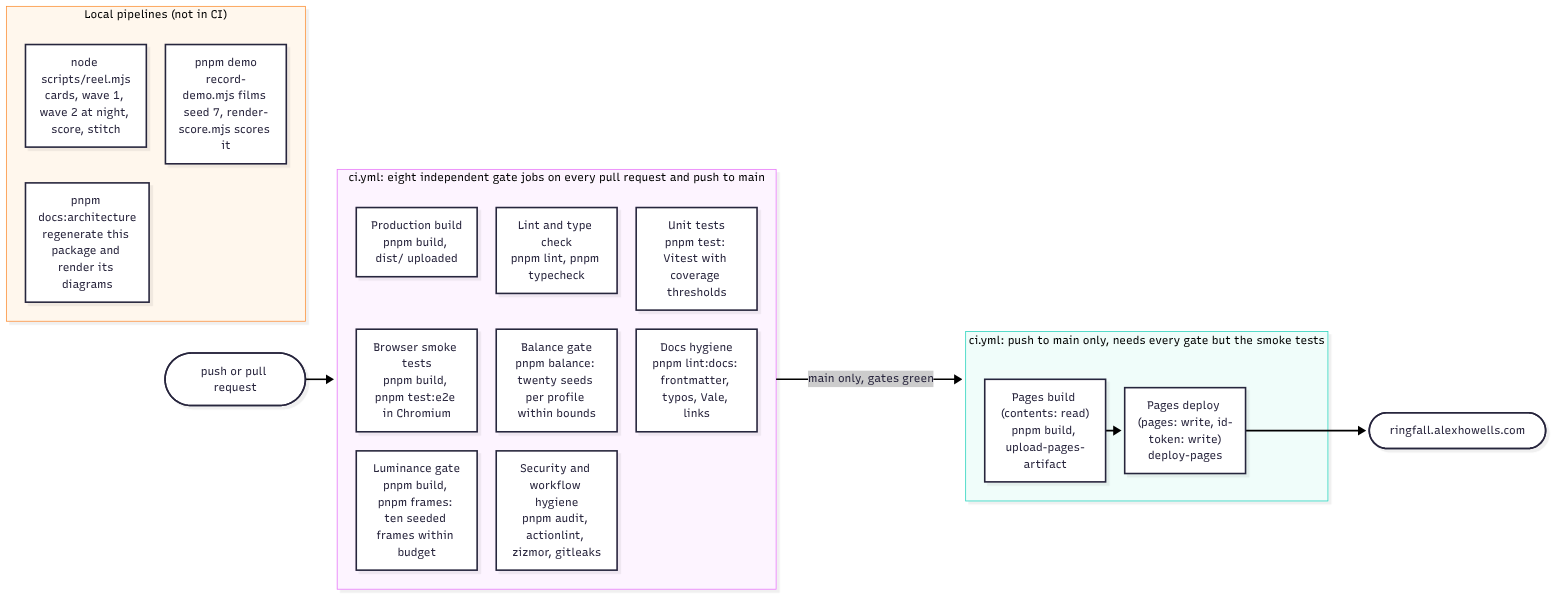
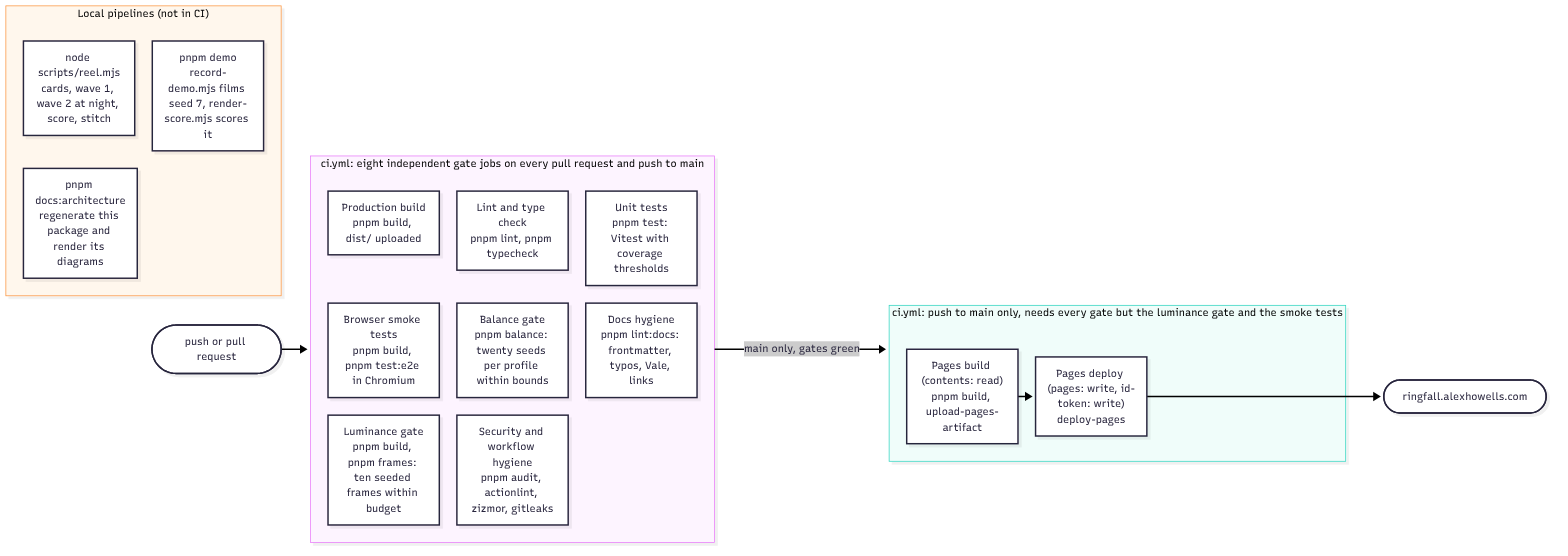
docs: follow PR #100 in the runbook, threat model, architecture and changelog
Part of #97 (Pass B). The Pages jobs now wait on the fast gates only,
the smoke tests have a 600 s budget and a 240 s first-step wait, and the
e2e artifact is the Playwright traces; the four pages that quoted the
old values and the two diagrams follow.

Claude-Session: https://claude.ai/code/session_01ApXjDPsd6B7Tp18a3jrdjZ

diff --git a/docs/threat-model.md b/docs/threat-model.md
@@ -111,7 +111,7 @@ flowchart TB
     security["Security and workflow hygiene<br/>pnpm audit, actionlint,<br/>zizmor, gitleaks"]
   end
 
-  subgraph deploy["ci.yml Pages jobs: push to main only, needs every job above except Browser smoke tests"]
+  subgraph deploy["ci.yml Pages jobs: push to main only, needs every job above except Luminance gate and Browser smoke tests"]
     direction LR
     dbuild["Pages build<br/>contents: read"]
     ddeploy["Pages deploy<br/>pages: write, id-token: write<br/>environment github-pages,<br/>concurrency pages"]
@@ -192,7 +192,7 @@ that implements it at `6fb2608`; "Gap" is what the control does not cover;
 | T12 | B6 | Information disclosure | A token, key or password is committed. | Low | High | `ci.yml` job `Security and workflow hygiene`: gitleaks 8.30.1 (SHA-256 verified download) over the working tree and the pushed commits with `.gitleaks.toml`, plus a self-test that the allowlist still catches a realistic `ghp_` and `sk_live_` token; `.pre-commit-config.yaml` runs gitleaks and `detect-private-key`; #68's sweep of the tree and `git log --all -p` found nothing (F22). | GitHub-side secret scanning and push protection are repository settings not yet confirmed on (F22). | #85 |
 | T13 | B6 | Tampering | A commit breaks an invariant that no reviewer would catch by eye: a `three` import or a clock in the pure core, a franchise term, a self-reference to the old repository name, a gameplay number that no longer matches the design document. | High | Medium | `tests/unit/purity.test.ts` and Biome restrict `src/core` to no `three`, `window`, `document`, `Date.now`, `Math.random`; `tests/unit/originality.test.ts` greps every tracked file outside `docs/research/` for the term list in `tests/unit/originality.terms.ts` (ADR-0003); `tests/unit/repo-name.test.ts` rejects the old repository path; `tests/unit/design-doc.test.ts` ties constants to `docs/design-doc.md`; `tests/balance/` and the `Luminance gate` job bound behavior and brightness. | None. These are the tests that did the stopping on 2026-10-21; see below. | none |
 | T14 | B7 | Elevation | A pull request workflow steals the `GITHUB_TOKEN`, writes to the repository, or runs an action whose upstream was replaced. | Low | High | `ci.yml` top-level `permissions: contents: read`; every `actions/checkout` has `persist-credentials: false`; `ci.yml` is the only workflow and has no `pull_request_target` or `workflow_run` trigger (#76 added a `workflow_run` deploy trigger and #89 removed it the same hour because zizmor rejects it); no `${{ }}` expression inside a `run:` (verified by #68); every `uses:` is pinned to a commit SHA with its tag in a comment, and #68 confirmed each SHA resolves to that tag; the `pages-deploy` job alone holds `pages: write` and `id-token: write`, checks nothing out, and runs only after `pages-build`, which has `contents: read` (F9, moved from `deploy-pages.yml` into `ci.yml` by #89). actionlint 1.7.12 and zizmor 1.31.1 at `--persona=pedantic` run on every pull request (`ci.yml` security job); Dependabot proposes action bumps weekly after a 7-day cooldown (`.github/dependabot.yml`, F12). | The repository-level Actions defaults (read-only token, approval for fork pull requests, allowed actions) could not be read (F20). They matter the day the repository is public. | #85 |
-| T15 | B7 | Repudiation | Evidence of a failing browser run is lost: the `playwright-report` artifact is uploaded on failure but is always empty. | High | Low | `ci.yml` uploads an artifact on e2e failure; `playwright.config.ts` writes traces on first retry to `test-results/`. | The artifact path is `playwright-report`, which the `github` reporter never writes (F14). | #86 |
+| T15 | B7 | Repudiation | Evidence of a failing browser run is lost: the e2e artifact is uploaded on failure but holds nothing. | High | Low | `ci.yml` uploads `test-results/` as `playwright-traces` on e2e failure (#100); `playwright.config.ts` writes traces on first retry to `test-results/`. | None since #100; the artifact was `playwright-report`, which the `github` reporter never writes (F14). | #86 |
 | T16 | B7, B8 | Tampering | A tool downloaded at CI time is substituted. | Low | Medium | typos, Vale, actionlint and gitleaks are fetched from GitHub releases at pinned versions and checked with `sha256sum --check --strict` before use (`ci.yml` docs and security jobs); `astral-sh/setup-uv` is SHA-pinned; Chromium comes from Playwright's own pinned distribution. | zizmor is run through `uvx --from zizmor==1.31.1` with a version pin only, no checksum; a PyPI compromise of that exact release would run on the runner with a read-only token. Accepted: the runner holds nothing to steal and the job runs no project code afterwards. | none (accepted) |
 | T17 | B7 | Tampering | A workflow regression goes unnoticed because a finding is suppressed. | Medium | Low | `.github/zizmor.yml` carries no ignores (`rules: {}` since #89); every zizmor finding at `--persona=pedantic` fails the security job. | None. | none |
 | T18 | B8 | Tampering | A hijacked or typosquatted npm release is installed on a developer machine or the runner; a lifecycle script runs on install. | Medium | High | `package.json` pins every dependency exactly, `pnpm-lock.yaml` carries sha512 integrity for each, every workflow job runs `pnpm install --frozen-lockfile`; `pnpm-workspace.yaml` `minimumReleaseAge: 1440` (nothing younger than a day resolves) and `onlyBuiltDependencies: []` (no dependency runs an install script); `.npmrc` `engine-strict=true` (F11); `.github/dependabot.yml` `versioning-strategy: increase`, `cooldown: 7 days`, grouped dev tooling (F12); `pnpm audit --audit-level=high` gates every pull request (`ci.yml` security job, from #62) with `pnpm.overrides` lifting the advisories that have fixes (F4). The one runtime dependency is `three@0.186.1`. | `GHSA-vfj7-8cjw-p6xm` (`braces`, high, reached only through `markdownlint-cli2` expanding the repository's own glob) is ignored under `pnpm.auditConfig` because no fixed release exists; the ignore is to be removed when one ships (recorded in #62). Dependency review on pull requests needs the dependency graph enabled by an admin. | #85 (dependency review); the `braces` ignore is residual risk, see section 5 |
@@ -369,7 +369,7 @@ issue tracks it; "Accepted" means the residual risk is stated in section 5.
 | 11 | Low | No pnpm hardening | Fixed (`pnpm-workspace.yaml`, `.npmrc`) | T18 |
 | 12 | Low | Dependabot without pin strategy, cooldown or grouping | Fixed (`.github/dependabot.yml`) | T14, T18 |
 | 13 | Low | Script arguments unvalidated | Fixed (`scripts/lib/args.mjs`) | T21 |
-| 14 | Low | `playwright-report` artifact always empty | Open | T15, #86 |
+| 14 | Low | `playwright-report` artifact always empty | Fixed (#100) | T15, #86 |
 | 15 | Low | Recorder frame-rate and cleanup nits | Partly fixed (frame-rate guard, #76); rest open | T21, #87 |
 | 16 | Info | `window.ringfallDebug` ungated | Open | T6, #84 |
 | 17 | Info | Page is framable | Accepted | T4 |

diff --git a/docs/architecture/README.md b/docs/architecture/README.md
@@ -199,7 +199,8 @@ The one workflow, `.github/workflows/ci.yml`, runs eight independent gate
 jobs on every pull request and every push to `main`; a pull request push cancels a
 superseded run, a push to `main` always runs to completion. Two more jobs,
 Pages build and Pages deploy, run only on a push to `main` and only after
-every gate except the browser smoke tests has passed, so a merge never
+every gate except the luminance gate and the browser smoke tests has
+passed (#100), so a merge never
 publishes a build that failed a gate. Every action is pinned to a commit
 SHA and checkouts do not persist credentials; the deploy job is the only
 one with write permission.
@@ -208,13 +209,13 @@ one with write permission.
 | --- | ----- | -------- |
 | Lint and type check | Biome, markdownlint, strict TypeScript | none |
 | Unit tests | Every core rule and the coverage thresholds in `vitest.config.ts` | `coverage` |
-| Browser smoke tests | The built page loads, starts, advances, moves on keys, no page errors | `playwright-report` on failure |
+| Browser smoke tests | The built page loads, starts, advances, moves on keys, no page errors | `playwright-traces` (the `test-results/` directory) on failure |
 | Luminance gate | Ten seeded frames within the mean and blob budgets in `scripts/frames.mjs` | `frames` |
 | Production build | `vite build` succeeds | `dist` |
 | Balance gate | Twenty seeded games per profile within `tests/balance/gate.ts` | `balance-report`, also appended to the job summary |
 | Docs hygiene | Frontmatter, typos, Vale, internal links; external links advisory | none |
 | Security and workflow hygiene | `pnpm audit`, actionlint, zizmor and gitleaks; actionlint and gitleaks pinned by checksum, zizmor by version | none |
-| Pages build | `main` only, after the gates: `pnpm build` and `upload-pages-artifact` | `github-pages` |
+| Pages build | `main` only, after the fast gates: `pnpm build` and `upload-pages-artifact` | `github-pages` |
 | Pages deploy | `main` only, after Pages build: `deploy-pages` with `pages: write` and an OIDC token | the live site |
 
 ![Build and delivery: the eight gate jobs, the two Pages jobs behind them, and the local recorder, reel and documentation pipelines](render/build.png)

diff --git a/docs/runbook.md b/docs/runbook.md
@@ -65,7 +65,8 @@ pnpm check          # lint, typecheck, unit tests with coverage, build
 
 The `Pages build` and `Pages deploy` jobs at the end of
 `.github/workflows/ci.yml` run on every push to `main`, after every other
-CI job on that push except the browser smoke tests has passed (`needs`), so a red run never ships. The
+CI job on that push except the luminance gate and the browser smoke tests
+has passed (`needs`, #100), so a red run never ships. The
 build job installs with the frozen lockfile, runs `pnpm build`, calls
 `actions/configure-pages`, and uploads `dist/` with
 `actions/upload-pages-artifact`. The deploy job publishes that artifact
@@ -110,8 +111,8 @@ pnpm test:watch     # vitest in watch mode
 ## Playwright
 
 The smoke tests in `tests/e2e/` run against `vite preview`, so the
-production build must exist first. Each test has a 120 second budget and
-waits up to 60 seconds for the simulation clock to pass 0.5 seconds,
+production build must exist first. Each test has a 600 second budget and
+waits up to 240 seconds for the simulation clock to pass 0.5 seconds,
 because software GL renders the post stack at a few frames per second.
 
 Without `PLAYWRIGHT_CHROMIUM_EXECUTABLE`, Playwright wants its own browser

diff --git a/CHANGELOG.md b/CHANGELOG.md
@@ -125,6 +125,11 @@ and this project adheres to
 
 ### Changed
 
+- The Pages build waits on the lint, unit, build, balance, docs and
+  security jobs only; the luminance gate and the browser smoke tests still
+  fail the run but no longer hold the deploy. The smoke tests wait up to
+  four minutes for the first simulation step and the e2e job uploads the
+  Playwright traces on failure (#100).
 - Pickups glow through their own emissive rig instead of one point light
   each (#29).
 - HUD and overlay styling moved onto the brand tokens and type scale, with
